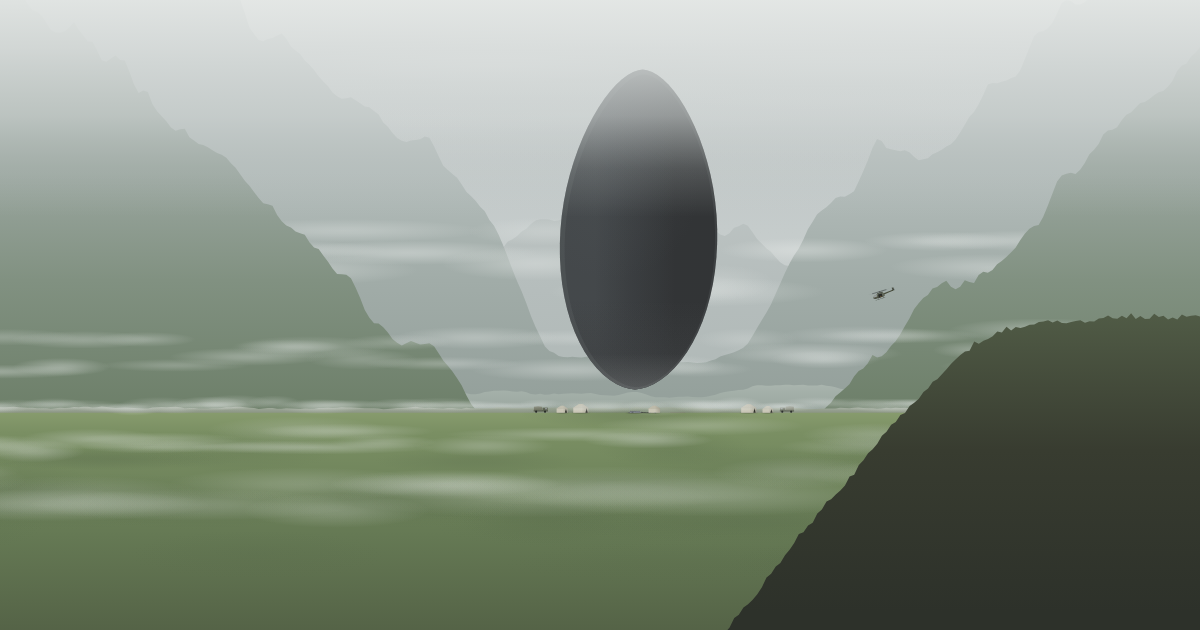
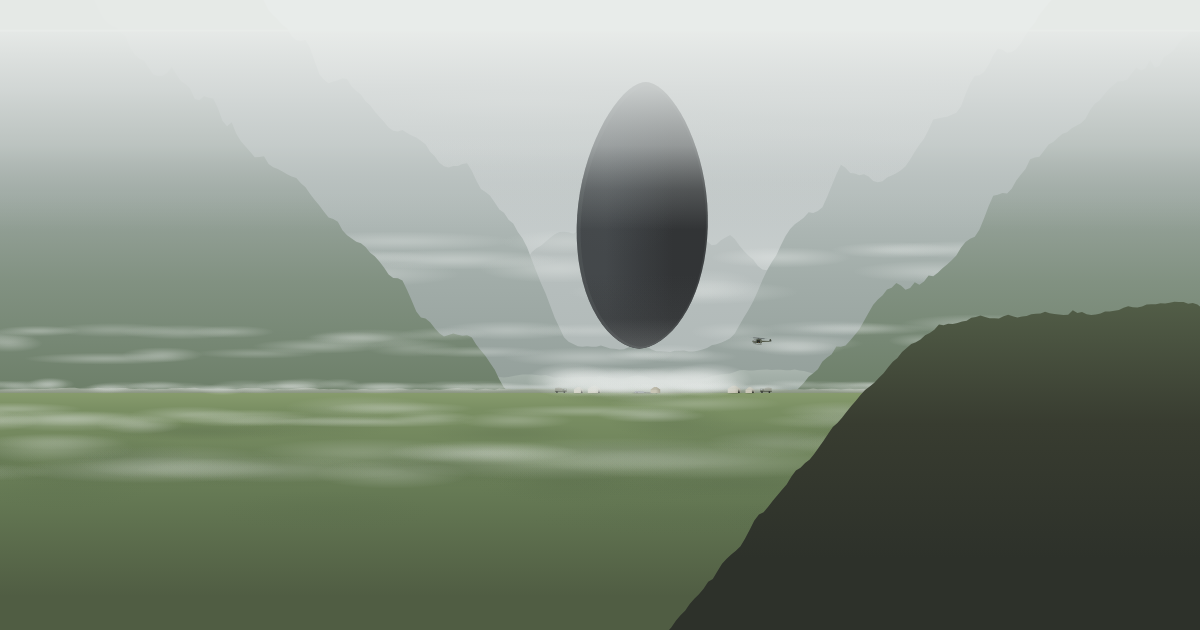
Palindrome: the report follows the critic round; the share card re-picked
- PALINDROME.md: the beats as they are now (the palm, the language machine, the
  bomb, the shell descending over the valley, the daylight over the ridge, the ring
  closing in the wide, the ending that chooses), and a section on the director's
  passes and the critic.
- The share card: the shell nearly settled over the camp (still 107.2).

diff --git a/apps/rube/src/shows/versions/nature-of-daylight/opus55.show.ts b/apps/rube/src/shows/versions/nature-of-daylight/opus55.show.ts
@@ -8,6 +8,6 @@ export default defineShow({
   title: 'Palindrome',
   label: 'Opus 5.5',
   about: "Max Richter's On the Nature of Daylight, the music Arrival opens and closes on, as a Rube Goldberg machine that tells the whole film and ends where it began.",
-  still: 105.5,
+  still: 107.2,
   async load() { return (await import('./palindrome')).performance },
 })

diff --git a/apps/rube/src/shows/versions/nature-of-daylight/PALINDROME.md b/apps/rube/src/shows/versions/nature-of-daylight/PALINDROME.md
@@ -75,15 +75,16 @@ her velocity, the camera's distance and where Ian, Hannah and Shang are at every
 agree without seeing each other.
 
 - **The cut on the shell** (102.110, the double bass). The one cut not on Louise. The camera pushes into the
-  television until its picture of the news fills the frame; the valley opens with the real shell exactly where the
+  television until its picture of the news is most of the frame; the valley opens with the real shell exactly where the
   television's was, the same size on the screen (`score.ts` works the framing out from the house's `TV_SHELL` and
   the valley's `SHELL_CUT`; `cast.ts` `shellOnScreen` is where the picture puts it).
 - **Hannah's rhyme.** At every cut into or out of the lake house Hannah is on Louise's right, a little above her: the
   cradle, the swing's seat, the bed, the swing in the vision. The same place on the screen, a different age.
 - **The white-out** (231.039): the blast's dust in the chamber, lit by the broken glass, swells to white, and the fog
   beyond the glass comes out of it.
-- **The circle.** From the last B-flat (357.471) to the end the camera is exactly on the first frame: the lake house
-  at dawn, Louise beside the cradle, baby Hannah in it.
+- **The circle.** The last cut opens close on the cradle, baby Hannah in it; from the last B-flat the camera draws back,
+  the opening's push in played backwards, and arrives on the first frame on the last attack (371.931): the lake house
+  at dawn, Louise beside the cradle. It holds there to the end.
 
 ## In order
 
@@ -93,19 +94,19 @@ Times are show seconds; chord *n* is the *n*th change of harmony.
 | ---: | --- | --- | --- |
 | 0 | silence; the first chord 1.625 | the lake house | The first frame: blue hour, a long room of glass over a grey lake. Louise on the floor beside a wooden cradle, baby Hannah in it. On each chord she rolls into the rocker and the cradle rocks on its runners, damped; the dawn comes up a step a chord. The camera comes in close on the two of them and goes back out. |
 | 22.111 | chord 5 | the lawn | Years on: the lawn down to the lake, a great tree at the water's edge and a rope swing, Hannah a child on its seat. The swing is a pendulum a bar long: Louise pushes at the back of the arc on each chord, and at the front, half a bar later, Hannah's feet brush the leaves hanging from the limb. The arcs grow; Hannah grows (a girl by 38.609, the second voice); the year goes round in the tree (summer, autumn's leaves knocked loose, a winter's bare twigs and snow, spring). On 61.365 she leaps from the top of the arc, lands and runs back; the swing dies down to dusk with her on it. |
-| 71.953 | chord 17: the cellos | the lake house | Years on: the same room on a grey day, a bed where the cradle stood, Hannah a young woman in it, ill; Louise beside her; a tall pendulum clock by the bed, its pendulum swinging on every beat, its hammer on the bell and a weight dropping a notch on every chord. The camera comes close on the two of them. **On the swell (93.861) the clock has run down, and Hannah goes**: she pales into the pillow. Louise alone by the empty bed. |
-| 98.429 | chord 23: the half cadence | the lake house | Night. The television comes on across the room: the news, a shell coming down out of the cloud. The camera pushes into the screen until its picture fills the frame. |
-| 102.110 | **the double bass** | Montana | The real shell, where the television's was, coming down out of the cloud between mountain walls, settling at its height as the bass swells; the fog it pushes down rolls out along the valley floor. A helicopter comes round the ridge, a speck against it, and the camera comes down the valley with it to the camp. Louise drops out of its door onto the meadow, rolls into the decon tent and out in her suit; Ian goes up the scissor lift's ramp before her. The lift surges up under the belly on the chords; a seam of light, and the slot opens (121.754), spilling light down on them; up into it. |
-| 129.556 | chord 32 | the chamber | Inside: a long dark chamber and at its end the glass, a wall of white. It wakes (135.442); **Abbott looms out of the white (137.381), then Costello (141.224)**, whole in the wide, the two of them tiny at the glass. Her board, which nothing answers; **her suit splits and falls away (145.165)**; she goes to the glass alone, and **a palm of seven fingers presses flat on the glass opposite her (149.171)**, hand on hand, held. Ian comes up beside her; the first logogram (153.060). Then the language, cut shot and reverse shot on the chords: her boards, their rings, each word lifted off the glass and pinned as a card in a row along the back wall; the row complete on 188.012, she reads it all back (190.943), Ian's board asks their question in their writing (192.789), and the answer comes: **a ring with a barb flung out of it, "weapon" (196.795)**. |
-| 200.626 | **the bass drops out** | the command tent | Night; the ring of twelve screens, one for every shell on Earth, each linked to the next. **The links fall like dominoes**: one a beat round the ring, each screen tipping dark and knocking the next link free, until only Montana is lit (213.595). |
-| 214.657 | chord 55 | the chamber | Another day: Abbott's palm slams the glass. The charge at its foot, blinking on the beats; a jagged ring written in bursts. **223.370: the blast**: the glass shattered, the two of them thrown down the chamber, Abbott reeling back into the fog. Dust in the white pouring through the hole; the light failing; the last of the glass goes (229.129); white. |
+| 71.953 | chord 17: the cellos | the lake house | Years on: the same room on a grey day, a bed where the cradle stood, Hannah a young woman in it, ill; Louise beside her; a tall pendulum clock by the bed, its pendulum swinging on every beat, its hammer on the bell and a weight dropping a notch on every chord. The camera comes close on the two of them, then takes in the bed and the whole clock: **on the swell (93.861) the weight reaches the bottom, the pendulum settles, and Hannah goes**, paling into the pillow. Close on the empty pillow; Louise beside it. |
+| 98.429 | chord 23: the half cadence | the lake house | Night. The television comes on across the room: the news, a shell hanging under the cloud. The camera pushes in until the picture is most of the frame, the set's bezel still round it. |
+| 102.110 | **the double bass** | Montana | The real shell, where the television's was and the same size, and now it comes down: out of the cloud between the mountain walls, settling as the bass swells, the camera drawing back so its height reads against the ridges. A helicopter comes round the ridge, a speck against it; the fog it drives down rolls along the valley floor. On the flare (108.716) the picture cuts to the camp under its belly. Louise drops out of the helicopter's door onto the meadow, rolls into the decon tent and out in her suit; Ian goes up the scissor lift's ramp before her. The lift surges up under the belly on the chords; a seam of light, and the slot opens (121.754), spilling light down on them; up into it. |
+| 129.556 | chord 32 | the chamber | Inside: a long dark chamber and at its end the glass, a pane before a wall of white. It wakes (135.442); **Abbott looms out of the white (137.381), then Costello (141.224)**, whole in the wide, the two of them tiny at the glass. Her board, which nothing answers; **her suit splits and falls away (145.165)**; she rolls to the glass alone, flush against the pane, and in one long push in the limb comes down behind it and **a hand of seven fingers presses flat on the glass beside her (149.171)**, a warm print blooming between them. Ian comes up beside her; the first logogram (153.060). Then the language, as a machine she drives: each time she lands on the plate by the glass her board flips up and a cord lifts a catch, and the last word they wrote runs down a rail into the row of cards on the back wall; four words so, then both of them writing at once, the row complete (189.005), read back close as the cards light in order (190.943), her question on the board, two of their rings joined (192.789), and the answer: **a ring with a barb flung out of it, "weapon" (196.795)**. |
+| 200.626 | **the bass drops out** | the command tent | Night; the ring of twelve screens, one for every shell on Earth, each linked to the next; a red lamp over the door comes on. **The links fall like dominoes**: one a beat round the ring, each screen tipping over on its hinge to hang dark and its link going slack as cable, knocking the next free, until only Montana is lit (213.595). |
+| 214.657 | chord 55 | the chamber | Another day: Abbott's palm slams the glass. The soldiers' charge at its foot, between them and the glass, its light flashing on the beats; a jagged ring written in bursts. **223.370: the blast**: white, the pane blowing out, the two of them thrown down the chamber on arcs, Abbott reeling back into the fog. Shards; the light failing; the last of the glass goes (229.129); white. |
 | 231.039 | chord 60, in white | beyond the glass | Alone in the fog. Costello points; a jet of ink under her, and a great logogram written round her both ways at once on the chords, lifting her; Abbott far back, sinking and paling away. The ring closes over her (242.480), turns, lets her go at its top (246.340); she falls through it and lands where its ends met. A small ring begins at her right. |
 | 250.120 | chord 66 | the lawn | What she is shown: the swing on a summer evening, Hannah a young woman, well, laughing, on its seat where the small ring was. A push; the leaves. |
-| 257.683 | chord 68 | beyond the glass | The ring she was shown grows on each stroke until it fills the frame; **on 262.374 its ends meet at her touch and the white floods out from it: she knows**. The palm lets it go. |
-| 266.124 | chord 71 | the gala | Years on: an evening reception, champagne light, a crowd of dark discs. She rolls onto a brass pouring stand and a champagne tower fills a tier a beat; the room raises its glasses (272.869); **Shang** crosses to her, leans in and they touch: the whisper (274.802). |
-| 277.647 | chord 74 | the command tent | The sat phone. She hops key to key on the beats, the number he gave her; the dead ring on 283.458; the call key on **288.554, the loudest bars**: the call goes up the cable and **the dominoes stand again, backwards**, one a beat, the last to fall the first to rise, **the ring whole on the loudest bar (303.827)**; pulses running both ways round it. |
-| 311.293 | chord 84 | Montana | Morning. The lift's deck comes down; **the shell goes up the way it came down**, into the cloud, **gone as the high violins stop (318.711)**. The hush: the cloud churning where it went. **322.606: the cloud tears open and daylight comes down the valley**, sweeping along the floor to her on 326.258; Ian comes to her across the light; they touch (330.170) and hold. |
-| 334.031 | chord 90 | the lake house | Home, in the morning light: Louise and Ian by the window, close. A cut, years on: she alone, the empty cradle across the room; she rocks it. **349.495: a cut to the first frame**, blue hour, baby Hannah in the cradle. She rocks it on the last chords, fainter and fainter, the last on the last attack (371.931). The credits in the silence over the wall above the window. |
+| 257.683 | chord 68 | beyond the glass | The ring she was shown grows on each stroke until it fills the frame, and the white round them goes to a grey dusk; **on 262.374 its ends meet at her touch and the white floods out from it: she knows**. The palm lets it go. |
+| 266.124 | chord 71 | the gala | Years on: an evening reception, champagne light, knots of dark guests. She rolls onto a brass pouring stand and a champagne tower fills a tier a beat; the room raises its glasses (272.869); **Shang** crosses to her, leans in and they touch: the whisper (274.802). |
+| 277.647 | chord 74 | the command tent | The sat phone, the red lamp burning. She hops key to key on the beats, the number he gave her; the dead ring on 283.458; the call key on **288.554, the loudest bars**: the call goes up the cable, China's screen rises red, and **the dominoes stand again, backwards**, one a beat, the last to fall the first to rise, the camera drawing back until **the ring closes whole in the wide on the loudest bar (303.827)**, the lamp going out; pulses running both ways round it. |
+| 311.293 | chord 84 | Montana | Morning. The lift's deck comes down; **the shell goes up the way it came down**, into the cloud, **gone as the high violins stop (318.711)**. The hush: the cloud churning where it went. **322.606: the cloud breaks over the left ridge and the low sun rakes across the valley**, its light sweeping along the floor to her on 326.258; Ian comes to her across the light; **they touch (330.170)**, close, and hold. |
+| 334.031 | chord 90 | the lake house | Home, in the morning light: Louise and Ian by the window, close, the empty cradle beside them. She rolls into him (337.850); they turn to the cradle (341.618) and go to it (345.490). **349.495: a cut close on the cradle, baby Hannah in it**, Louise rocking it: they chose her. She rocks it on the last chords, fainter and fainter; from the last B-flat the camera draws back, the opening's push in played backwards, and arrives on the first frame on the last attack (371.931). The credits in the silence over the wall above the window. |
 
 ## End credits
 
@@ -127,7 +128,7 @@ card the room holds to the end, 408 s.
   screen, and more than a quarter of the frame tall;
 - the palindromes: the shell's path out is its path in, backwards, and it is gone when the high violins stop; the
   twelve links fall after the bass drops out and stand again in the reverse order, the ring whole on the loudest bar;
-  the last frame is the first, Louise and baby Hannah where they were, from the last B-flat to the end;
+  the last frame is the first, Louise and baby Hannah where they were, from the last attack to the end;
 - Hannah on Louise's right, a little above her, at every cut into or out of the lake house;
 - every strike on a beat, a change of chord or a measured onset, and every part striking; nine in ten changes of
   chord struck; three in four of the loudest bars' beats struck; the story's moments struck on the music's (Hannah
@@ -161,6 +162,36 @@ card the room holds to the end, 408 s.
   canonical drawings and a stub for every part so the show ran end to end; six builders built the six places in
   parallel from one brief; rounds of director's notes followed, from contact sheets, 1× films tiled at a frame a
   second, and probes (strikes against the music, velocity jerks, camera stutters, parked stretches).
+
+## Director's passes
+
+What was watched: contact sheets of every place, the whole film filmed at 1× and tiled a frame a second, and probes
+(every strike against the music, velocity jerks, camera stutters, stretches where nothing on the screen moves). Then a
+critic who had not seen the brief watched the whole film cold and ranked its worst. What changed because of it:
+
+- **The palm** was a hard seven-pointed star ten times her size, floating in the white off the glass's edge, cut to on
+  the chord: a shuriken. The glass is a drawn pane now, she rolls flush to it, and the hand (a pad and seven
+  round-padded fingers, a few times her size) comes down behind it in one push and presses flat beside her.
+- **The language** was one set-up cut back and forth for 43 s, the two of them specks on the floor and each word
+  flying to the wall as a pale hairline ring. It is a machine she drives now (a plate, a cord, a catch, a rail, a
+  row of cards in their black ink), framed so she is thirty pixels across, and four words in full before the fuller
+  part.
+- **The bomb** was a dark box on a dark ledge and a grey flash; the charge flashes between them and the glass now, the
+  pane blows out, and both are thrown on arcs in the frame.
+- **The shell** did most of its descent on the television, so after the double bass it hung still; its journey is
+  twelve seconds eased both ways now, the news showing only its slow start, the real valley the rest.
+- **The daylight** came down as shafts from a glowing hole exactly where the shell had gone: a tractor beam. It breaks
+  over the left ridge now and rakes across the valley.
+- **The ring** closed on the loudest bar in a crop of its bottom arc; now the camera is close early and the circle
+  closes whole in the wide. Its dead links were hairline arcs with ticks (a diagram) and its fallen screens black
+  blobs; they are slack cable and screens hanging crooked on their hinges. A red lamp over the tent's door gives the
+  stakes.
+- **The people**: the gala's guests and the tent's soldiers were drawn human silhouettes, which made Louise and Shang
+  marbles at their feet; everyone is a ball now.
+- **The heroes' size**: at the swing, in the fog and at the reunion they were specks; each is framed closer.
+- **The ending** had her alone with the empty cradle before the baby, which read as grief (remembering) rather than
+  choosing; Louise and Ian stay together and turn to the cradle, and the last shot draws back to the first frame as
+  the opening pushed in.
 
 ## Arrival nods
 
